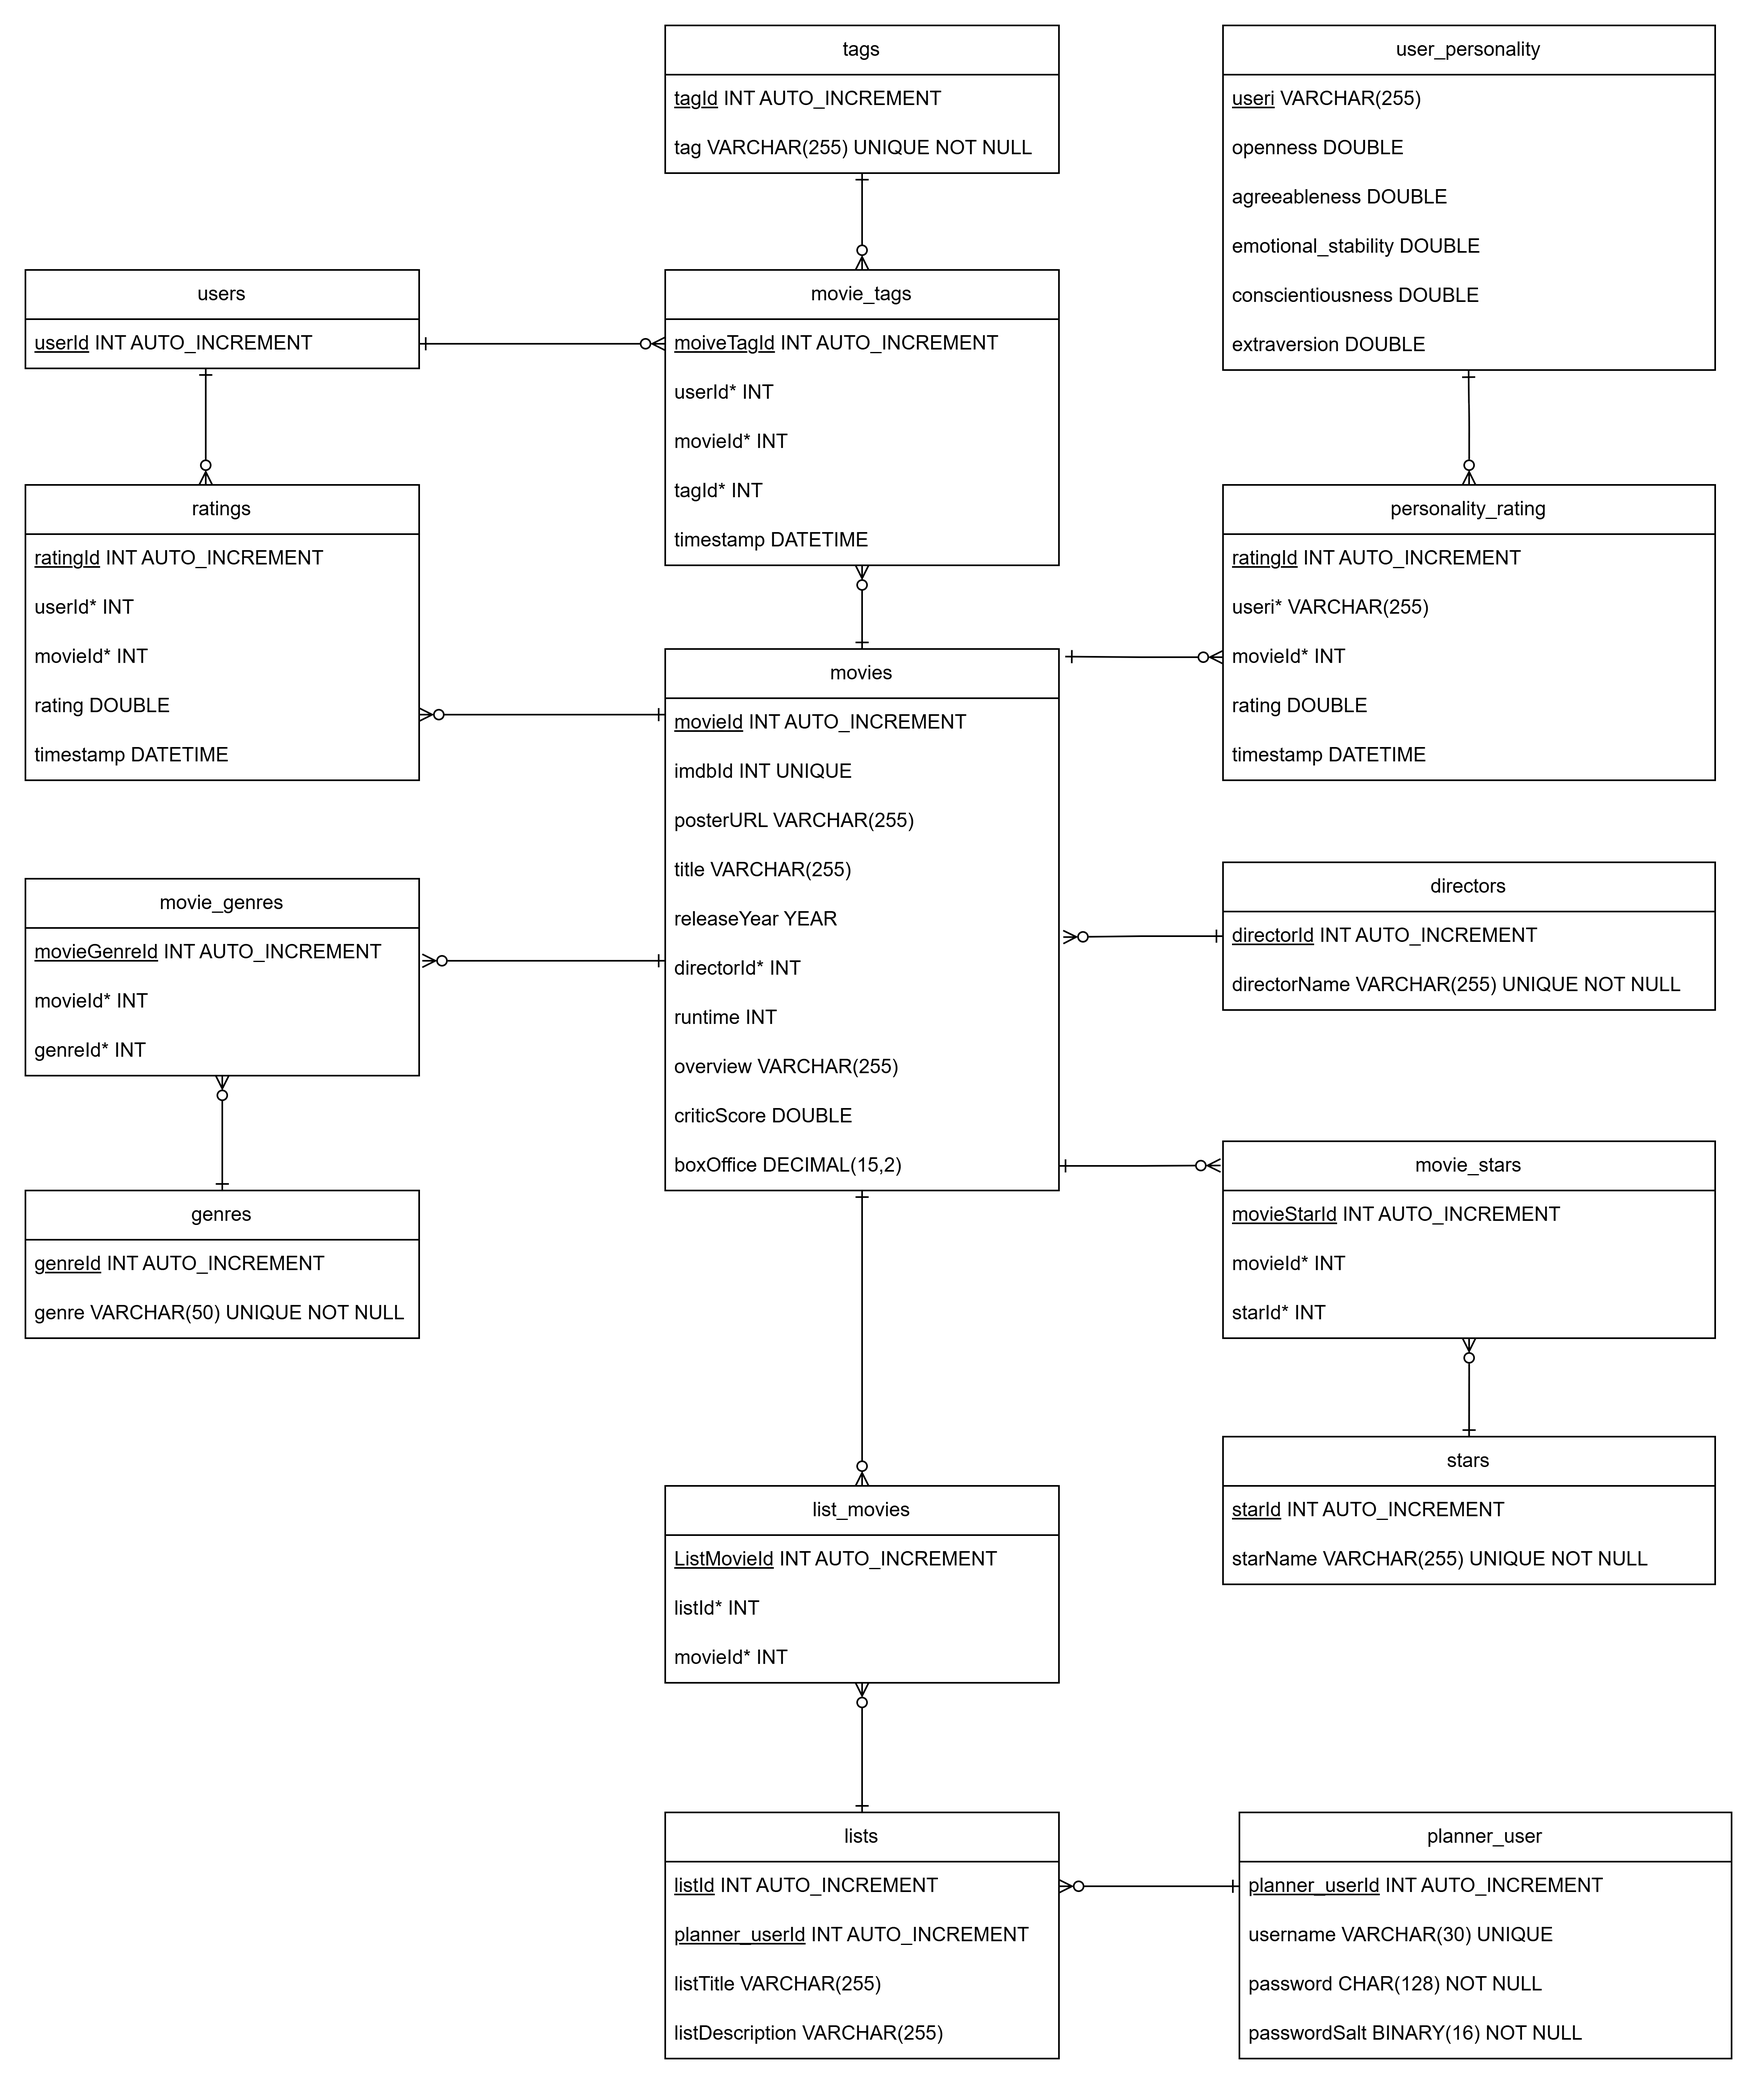
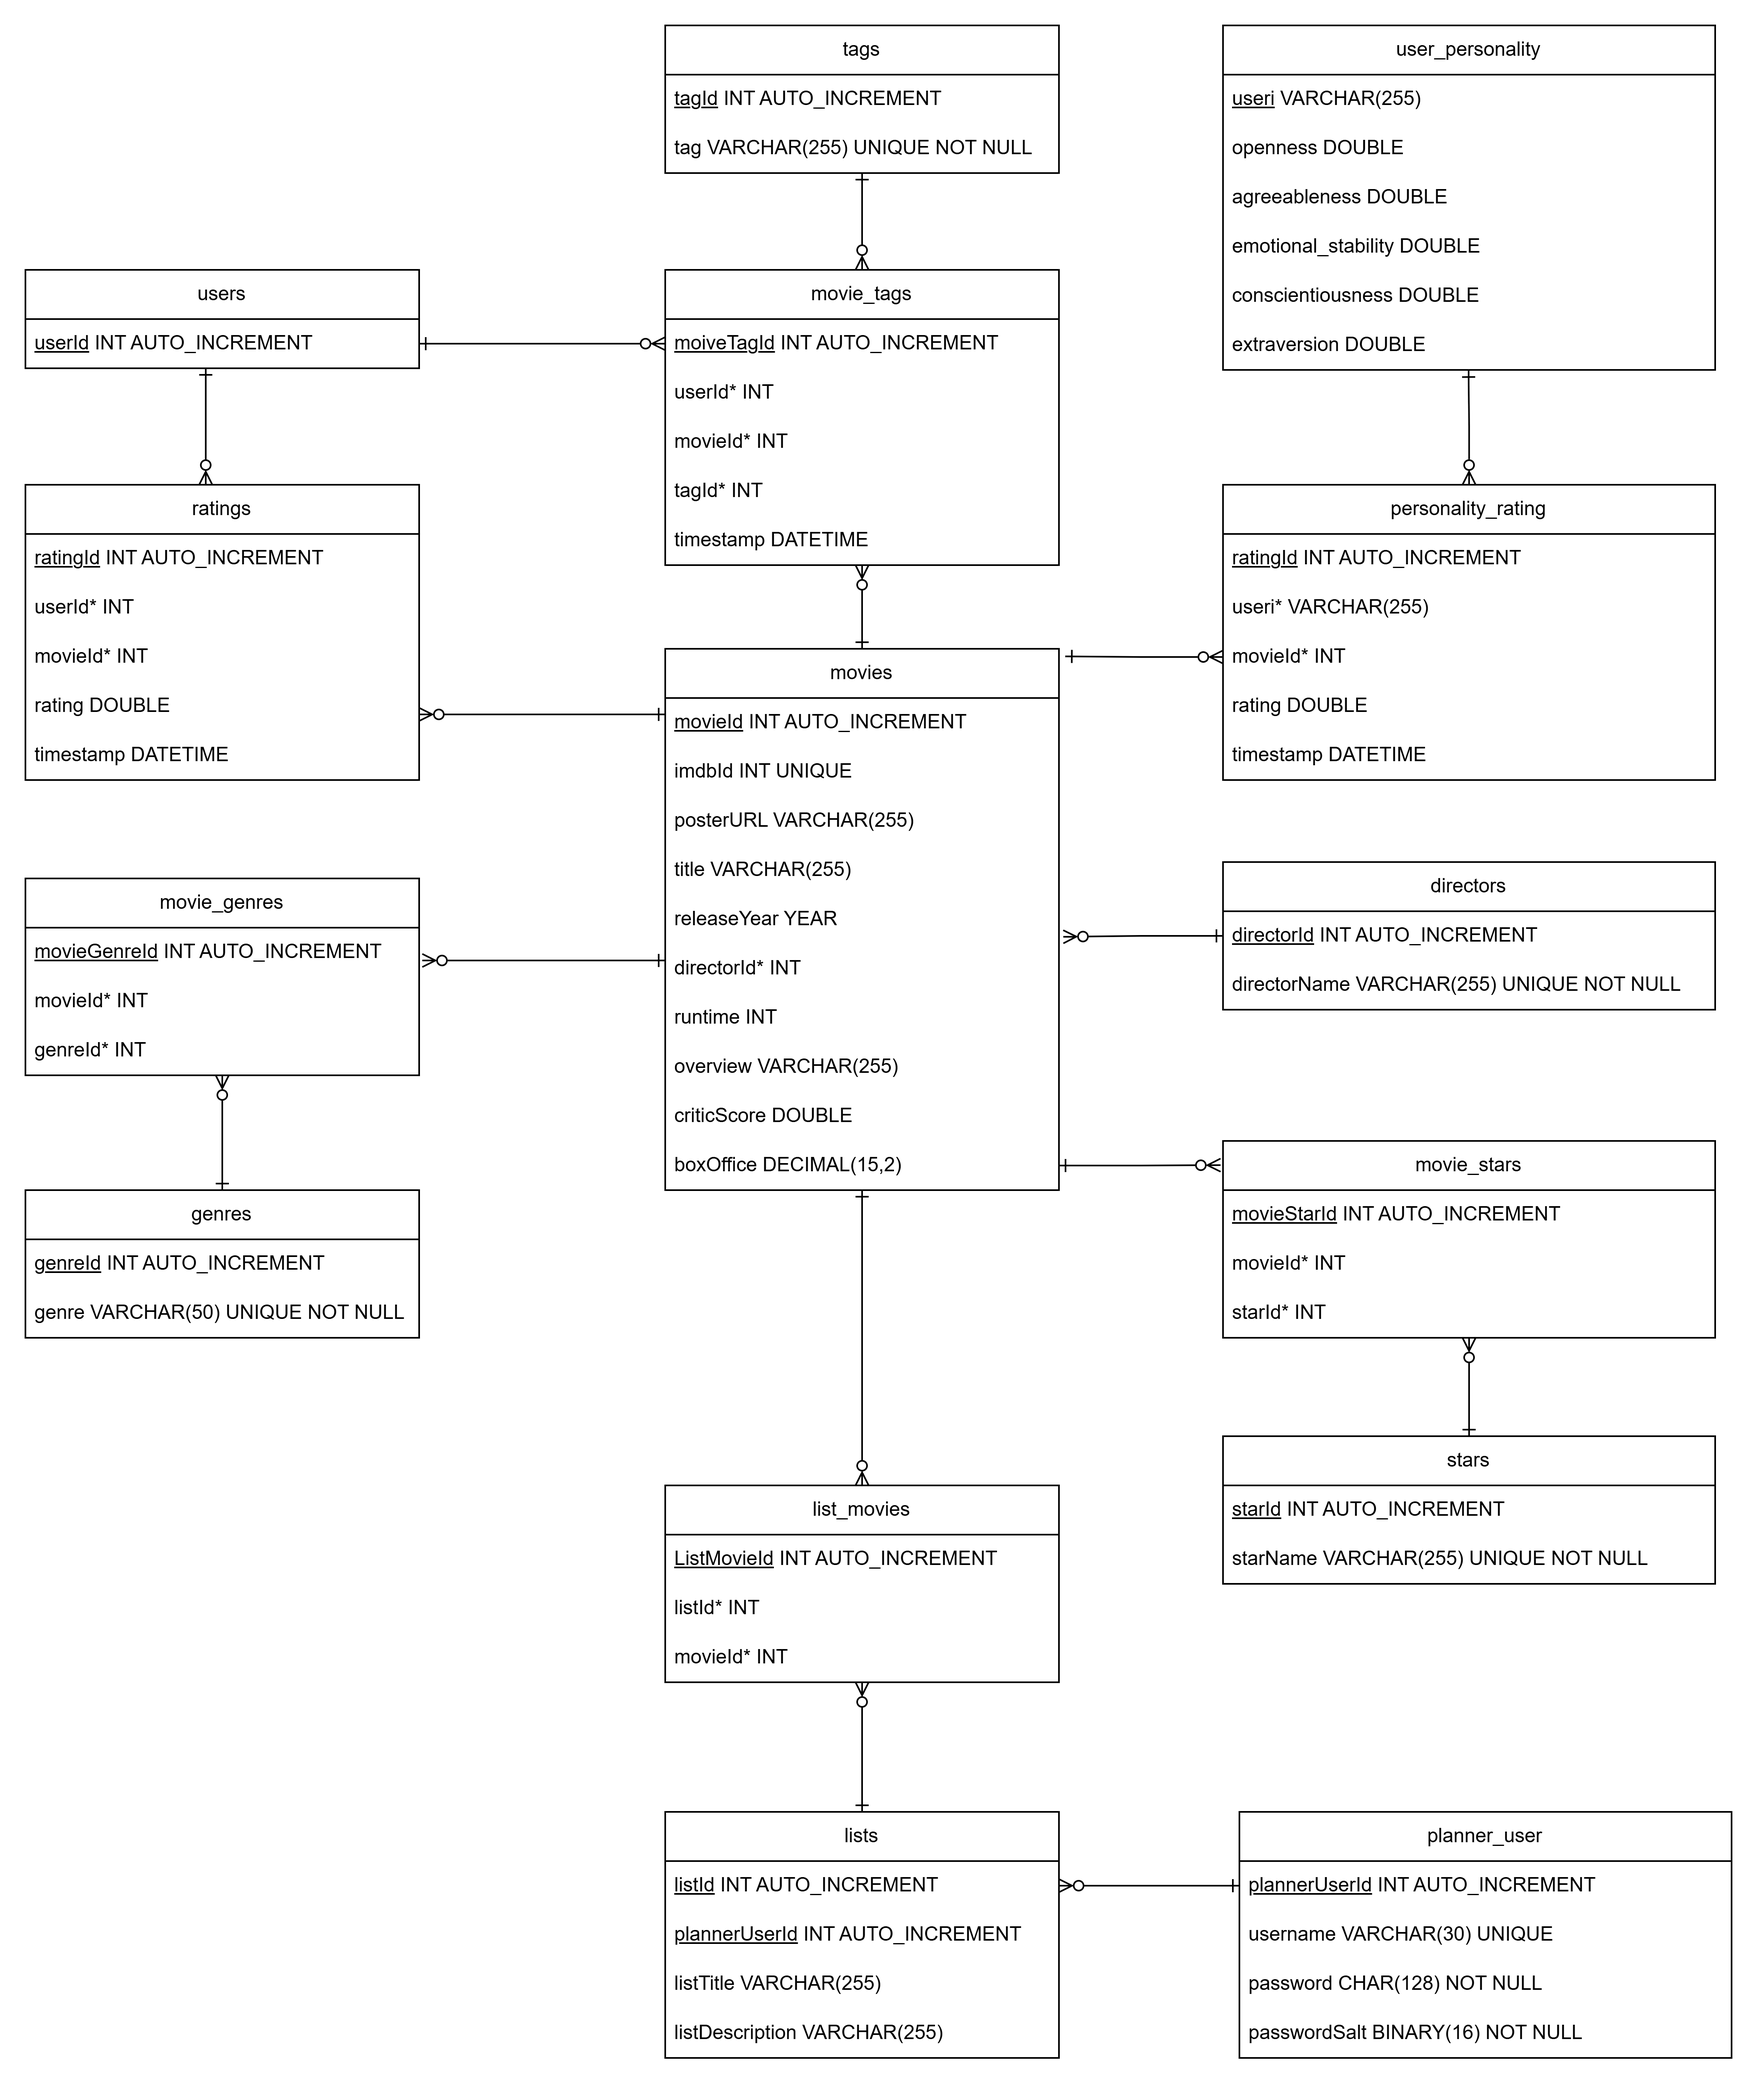
Update planner_userId to plannerUserId and add records for testing

diff --git a/scripts/CSV_to_INSERT.py b/scripts/CSV_to_INSERT.py
@@ -69,15 +69,16 @@ with open('scripts/initdb.sql', 'w') as outfile:
             outfile.write('\n' + infile.read())
 
     outfile.write(
-                f"INSERT INTO planner_user(username, password) "
-                f"VALUES ('testUser', 'password123');\n"
+                f"INSERT INTO planner_user (username, passwordSalt, password) "
+                f"VALUES ('mr_smiths', UNHEX('A1B2C3D4E5F6A7B8C9D0E1F2A3B4C5D6'), "
+                f"SHA2(CONCAT('password123', UNHEX('A1B2C3D4E5F6A7B8C9D0E1F2A3B4C5D6')), 256)); \n"
 
-                f"INSERT INTO lists(listTitle, username) "
-                f"VALUES ('testList', 'testUser');\n"
+                f"INSERT INTO lists (listTitle, plannerUserId) "
+                f"VALUES ('Favorite', 1); \n"
+
+                f"INSERT INTO lists (listTitle, plannerUserId) "
+                f"VALUES ('Watchlist', 1); \n"
 
                 f"INSERT INTO list_movies(listId, movieId) "
-                f"VALUES (1, 1);\n"
-
-                f"INSERT INTO list_movies(listId, movieId) "
-                f"VALUES (1, 2);\n"
+                f"VALUES (1, 1); \n"
             )
